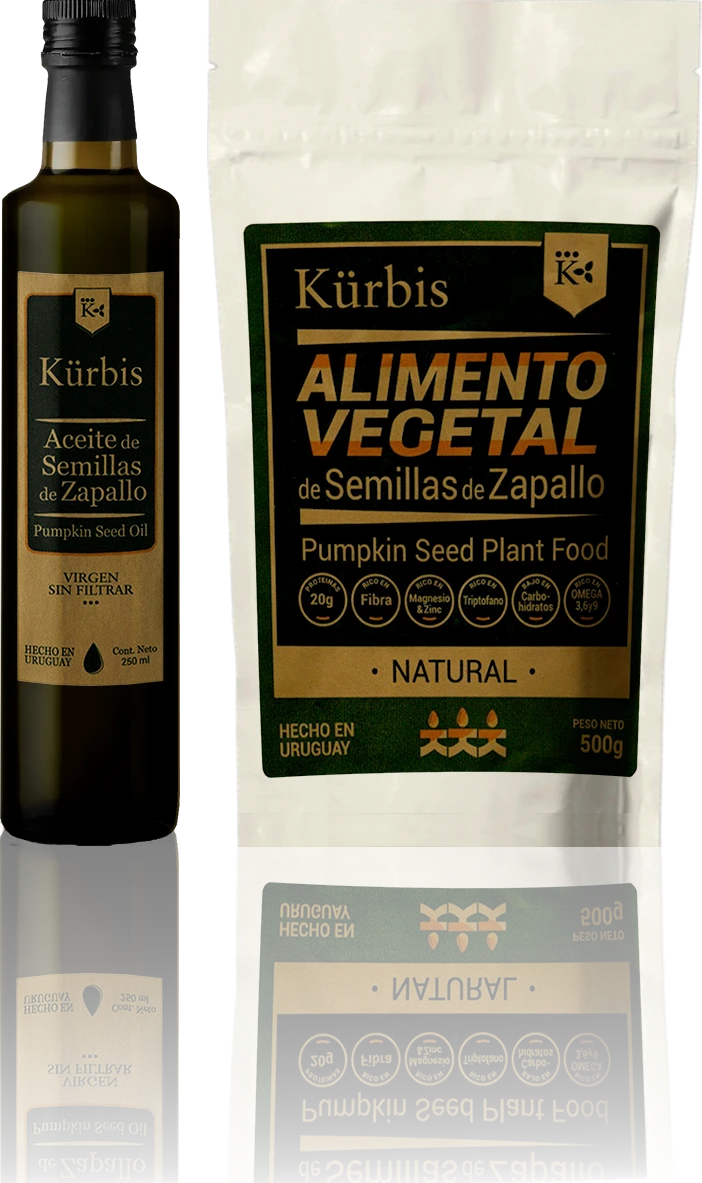
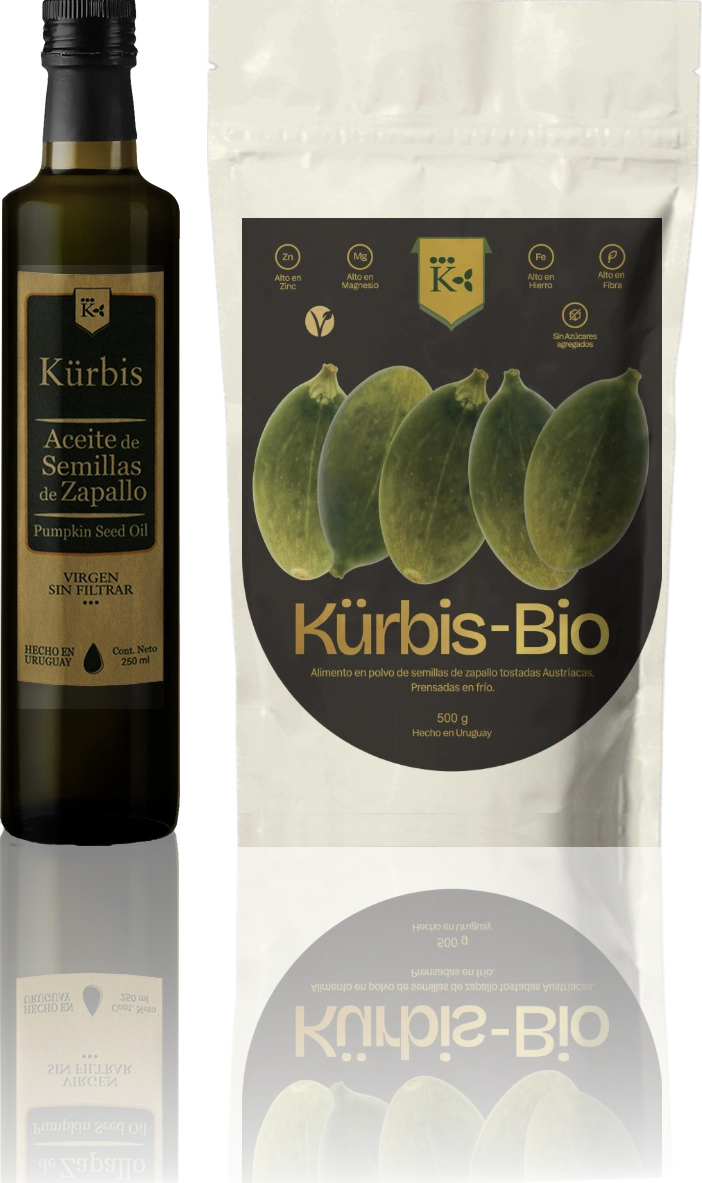
feat: :sparkles: Acutalizo todas las etiquetas del producto vegetal, también añado el producto Cucurvita

diff --git a/src/components/BuySection.tsx b/src/components/BuySection.tsx
@@ -36,6 +36,7 @@ export default function BuySection() {
   const message = "Hola, quiero más información sobre sus productos";
   const url = `https://wa.me/${phone}?text=${encodeURIComponent(message)}`;
   const precioAceite = "890,00"
+  const precioCucurvita = "1.550,00"
   const precioAlimento = "1.450,00"
   const duoWellness = "1.870,00"
   const saboresAustria = "4.450,00"
@@ -128,9 +129,10 @@ export default function BuySection() {
             </h2>
             <div className="w-24 h-[1px] bg-[var(--color-primario)] mx-auto mb-8"></div>
 
-            <div className="grid grid-cols-1 md:grid-cols-2 gap-4 gap-y-10">
-              <Image img="comprar/oil-bottle.webp" titulo={"$U  " + precioAceite} alt="Aceite Kürbis"/>
+            <div className="grid grid-cols-1 md:grid-cols-3 gap-4 gap-y-10">
               <Image img="comprar/natural.webp" titulo={"$U  " + precioAlimento} alt="Alimento Kürbis"/>
+              <Image img="comprar/oil-bottle.webp" titulo={"$U  " + precioAceite} alt="Aceite Kürbis"/>
+              <Image img="comprar/cucurvita.webp" titulo={"$U  " + precioCucurvita} alt="Cucurvita Kürbis"/>
             </div>
           </motion.div>
         </div>
